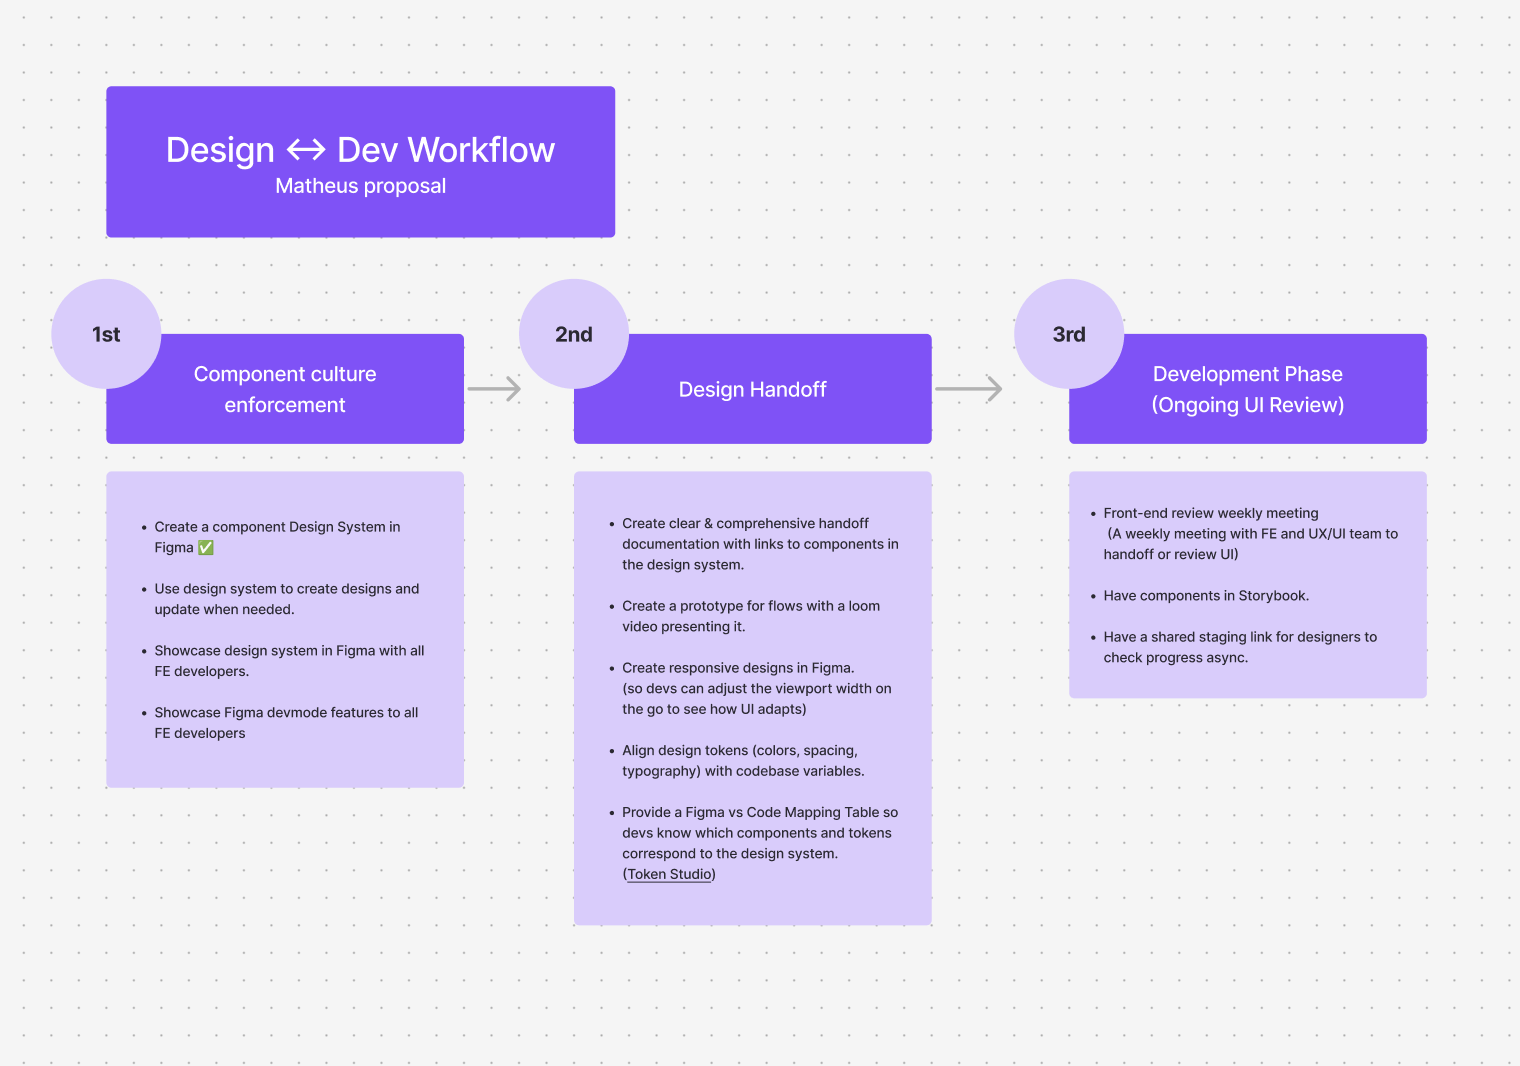
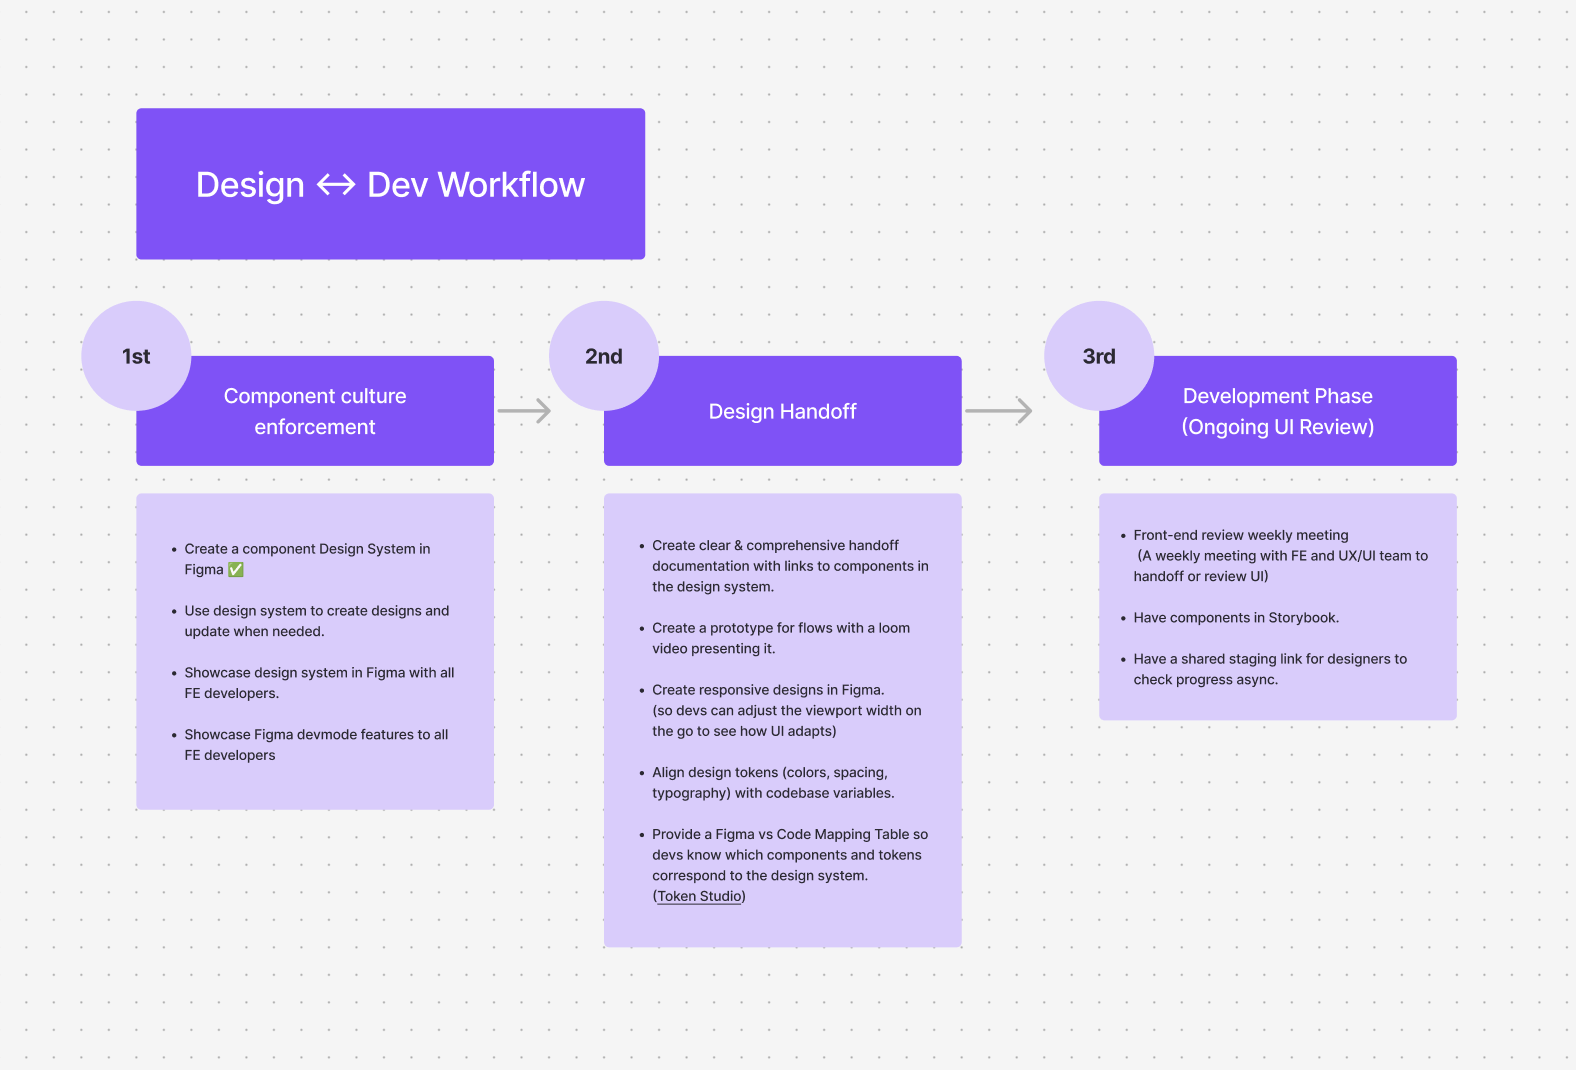
design to dev handoff

Changed region(s): [[0.0309, 0.0619, 0.9586, 0.8977]]

diff --git a/posts/design-process.md b/posts/design-process.md
@@ -1,0 +1,235 @@
+---
+title: "Design Process - From Idea to Developer Handoff"
+date: "2025-10-22"
+tags: ["case studies"]
+category: "case studies"
+featureImage: "/images/posts/design-process/feature-image.png"
+description: "A comprehensive guide to the design workflow from initial concept through final handoff to development teams"
+---
+
+  <img src="/images/posts/design-process/img-1.png" alt="Design process workflow step 1" />
+  
+  
+
+### The best approach to handoff
+
+We need to work fast in Web3. Design is one of those things that you can get sucked into if you aren't careful. It's never perfect enough. And perfection in our industry can be a killer of product deliverables. Sometimes you just need to ship it and let the feedback guide the changes that are necessary.
+
+But you still need to have an established flow for hand offs and one that the team can get behind.
+
+One of our designers, Matheus Lima, put together this proposal. Our team commited to this design process and we were able to get more done in less time invested.
+
+### Phase 1: Research & Discovery
+
+Before designing, invest time in understanding the context:
+
+**User Research**
+- Conduct interviews or surveys with target users
+- Analyze existing user behavior and patterns
+- Review competitor solutions and industry standards
+- Identify user pain points and opportunities
+
+**Technical Constraints**
+- Understand platform limitations (web, mobile, native)
+- Review existing design systems and component libraries
+- Identify technical requirements and dependencies
+- Consider performance and accessibility needs
+
+**Business Context**
+- Align with brand guidelines and visual identity
+- Understand business goals and success metrics
+- Review existing products and their design language
+- Consider scalability and future iterations
+
+<img src="/images/posts/design-process/img-2.png" alt="Design process workflow step 2" />
+
+### Phase 2: Ideation & Sketching
+
+Start with low-fidelity exploration.
+
+**Rapid Sketching**
+- Quick paper sketches or digital wireframes
+- Explore multiple layout options
+- Test different information hierarchies
+- Don't get attached to early ideas—iterate quickly
+
+**Concept Exploration**
+- Create multiple approaches to the same problem
+- Consider different interaction patterns
+- Explore various visual directions
+- Get feedback early and often
+
+<img src="/images/posts/design-process/img-3.png" alt="Design process workflow step 3" />
+
+### Phase 3: Wireframing & Structure
+
+Build the foundation before adding visual polish:
+
+**Information Architecture**
+- Map out content structure and hierarchy
+- Define navigation patterns and user flows
+- Identify key interactions and states
+- Ensure logical flow and intuitive organization
+
+**Low-Fidelity Wireframes**
+- Focus on layout and structure, not visual design
+- Use simple shapes and placeholders
+- Define spacing, sizing, and relationships
+- Make it easy to iterate and change
+
+**User Flow Mapping**
+- Document the complete user journey
+- Identify decision points and interactions
+- Map out error states and edge cases
+- Ensure smooth transitions between screens
+
+### Phase 4: Visual Design & Refinement
+
+Once the structure is solid, add visual polish:
+
+**Design System Application**
+- Use consistent colors, typography, and spacing
+- Apply established component patterns
+- Maintain brand consistency
+- Ensure accessibility standards are met
+
+**High-Fidelity Mockups**
+- Create pixel-perfect designs
+- Include all states (hover, active, disabled, error)
+- Design for multiple screen sizes
+- Consider dark mode and theme variations
+
+**Visual Hierarchy**
+- Ensure important information stands out
+- Use contrast, size, and spacing effectively
+- Guide user attention to key actions
+- Create visual rhythm and flow
+
+### Phase 5: Prototyping & Testing
+
+Before handoff, validate the design:
+
+**Interactive Prototypes**
+- Create clickable prototypes to test interactions
+- Validate user flows and navigation
+- Test with real users when possible
+- Identify usability issues early
+
+**Design Review**
+- Get feedback from stakeholders
+- Review with developers for feasibility
+- Check against accessibility guidelines
+- Ensure design meets all requirements
+
+### Phase 6: Developer Handoff
+
+The handoff process is critical for successful implementation:
+
+**Organized Design Files**
+- Use consistent naming conventions
+- Organize layers and components logically
+- Group related elements together
+- Remove unused assets and layers
+
+**Comprehensive Documentation**
+- Document design decisions and rationale
+- Specify spacing, sizing, and measurements
+- Include interaction states and animations
+- Note edge cases and special considerations
+
+**Design Specifications**
+- Provide exact measurements and spacing
+- Specify colors, typography, and assets
+- Document responsive breakpoints
+- Include animation timing and easing
+
+**Asset Preparation**
+- Export assets in required formats and sizes
+- Optimize images for web performance
+- Provide assets for different resolutions
+- Include both light and dark mode assets when needed
+
+**Communication & Collaboration**
+- Schedule handoff meetings to walk through designs
+- Be available for questions during implementation
+- Review developer implementations and provide feedback
+- Iterate based on technical constraints discovered
+
+### Best Practices for Successful Handoff
+
+**1. Start Early Communication**
+- Involve developers in the design process early
+- Get technical feedback before finalizing designs
+- Understand implementation constraints upfront
+
+**2. Use Design Tools Effectively**
+- Leverage design tool features for handoff (Figma Dev Mode, etc.)
+- Create component libraries for consistency
+- Use auto-layout and constraints for responsive designs
+
+**3. Document Everything**
+- Write clear notes explaining design decisions
+- Specify edge cases and error states
+- Document interactions and micro-animations
+- Include accessibility considerations
+
+**4. Maintain Collaboration**
+- Design is not done when you hand it off
+- Be available to answer questions
+- Review implementations and provide feedback
+- Iterate based on what you learn during development
+
+**5. Consider Developer Workflow**
+- Understand how developers will implement your designs
+- Provide designs in formats they can easily use
+- Consider component-based architecture
+- Think about reusable patterns and systems
+
+### Common Pitfalls to Avoid
+
+**Skipping the Foundation**
+- Don't jump straight to high-fidelity design
+- Take time to understand the problem and users
+- Build on a solid wireframe foundation
+
+**Over-Designing**
+- Don't add unnecessary complexity
+- Keep designs simple and focused
+- Remember that less is often more
+
+**Poor Organization**
+- Don't create messy, unorganized design files
+- Use consistent naming and structure
+- Make it easy for developers to find what they need
+
+**Lack of Communication**
+- Don't work in isolation
+- Communicate regularly with developers
+- Get feedback early and often
+
+**Ignoring Constraints**
+- Don't design without considering technical limitations
+- Understand platform capabilities
+- Design for the actual implementation environment
+
+### The Iterative Nature of Design
+
+Remember that design is an iterative process:
+
+- **Design → Build → Learn → Iterate**
+- Be open to feedback and changes
+- Designs will evolve during development
+- Some ideas won't work as expected—that's okay
+- The goal is the best possible user experience, not perfect adherence to initial designs
+
+### Conclusion
+
+A successful design process from idea to handoff requires:
+
+- **Thorough Research**: Understanding users, constraints, and context
+- **Structured Approach**: Following a clear process from low to high fidelity
+- **Effective Communication**: Collaborating with developers throughout
+- **Comprehensive Documentation**: Making handoff smooth and clear
+- **Flexibility**: Being open to iteration and improvement
+
+By following this process, you create designs that are not only visually appealing but also well-thought-out, technically feasible, and ready for successful implementation. The key is maintaining clear communication and collaboration throughout the entire journey from initial concept to final product.
